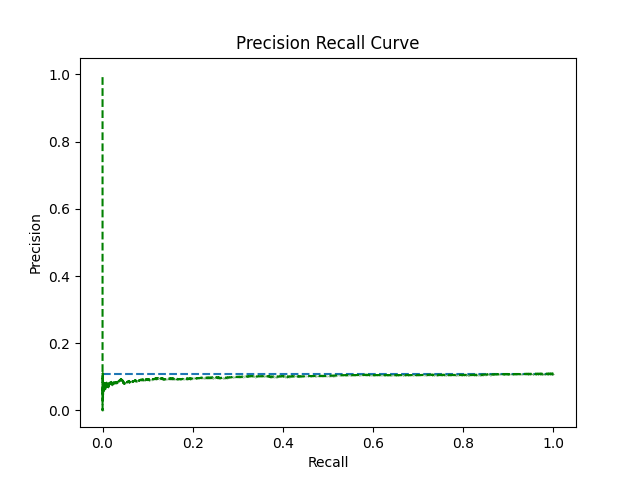
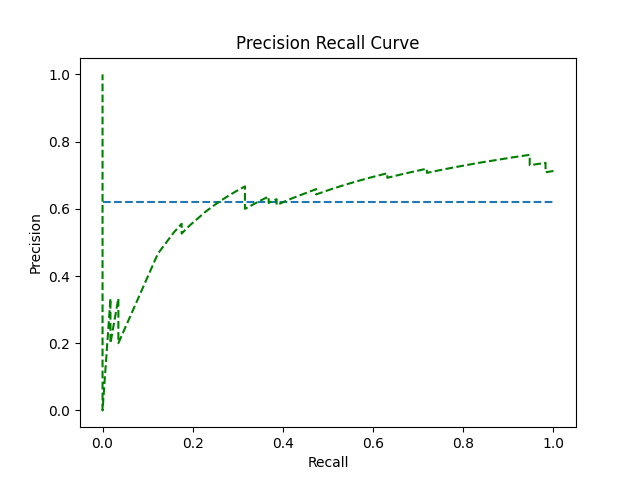
Mini batch Completed

diff --git a/Enhanced-ANN-GSGD/main.py b/Enhanced-ANN-GSGD/main.py
@@ -19,11 +19,14 @@ import torch
 import torch.nn as nn
 from torch.utils.data import DataLoader, TensorDataset
 
+seed(1)
+np.warnings.filterwarnings('ignore', category=np.VisibleDeprecationWarning) 
+np.warnings.filterwarnings('ignore', category=FutureWarning) 
+device = torch.device('cuda' if torch.cuda.is_available() else 'cpu')
+
 def GSGD_ANN(filePath):
     # reading data, normalize and spliting into train/test
     NC, x, y, N, d, xts, yts = readData(filePath)
-
-    seed(1)
     
     #model parameters
     l_rate =  0.00010926827346753853 #0.0002814354245#0.0002216960781458557#0.0002314354244 #0.000885 #0.061 #0.00025 #0.5
@@ -35,19 +38,10 @@ def GSGD_ANN(filePath):
 
     optim_params = l_rate, lamda, betas, beta, epsilon
     optims = ['SGD', 'ADAM', 'ADADELTA', 'RMSPROP', 'ADAGRAD']
-    
     optim_name = optims[0]
 
     #Results Container
-    GSGD_SRoverEpochs = []
-    GSGD_EoverEpochs = []
-
-    SGD_SRoverEpochs = []
-    SGD_EoverEpochs = []
-
-    singlepochSRGSGD = []
-    singlepochSRSGD = []
-
+    GSGD_SRoverEpochs, GSGD_EoverEpochs, SGD_SRoverEpochs, SGD_EoverEpochs, singlepochSRGSGD, singlepochSRSGD = [], [], [], [], [], []
     results_container = GSGD_SRoverEpochs, GSGD_EoverEpochs, SGD_SRoverEpochs, SGD_EoverEpochs, singlepochSRGSGD, singlepochSRSGD
 
     #initialize both networks #should have the same initial weights
@@ -55,108 +49,104 @@ def GSGD_ANN(filePath):
                       nn.Linear(d, n_hidden),
                       nn.Sigmoid(),
                       nn.Linear(n_hidden, 1),
-                      nn.Sigmoid())
+                      nn.Sigmoid()).to(device)
     optimizer_GSGD = get_optimizer(network_GSGD, name=optim_name, cache= optim_params)
     network_SGD = copy.deepcopy(network_GSGD)
     optimizer_SGD = get_optimizer(network_SGD, name=optim_name, cache= optim_params)
 
 
     # evaluate algorithm GSGD
-    T = 1000
+    T = math.inf #number of batches to train. set to math.inf if all batches will be used in training
     is_guided_approach = True
     rho = 7
-    versetnum = 5
+    versetnum = 5 #number of batches used for verification
     epochs = 30
     revisitNum = 3
-    cache = is_guided_approach, rho, versetnum,epochs, revisitNum, N, network_GSGD, optimizer_GSGD, T
-    evaluate_algorithm(back_propagation, x, y, xts, yts , l_rate, n_hidden, d, NC, N, filePath, lamda, cache, results_container)
+    batch_size = 7
 
-    # evaluate algorithm SGD
+    #evaluate GSGD
+    cache = is_guided_approach, rho, versetnum,epochs, revisitNum, N, network_GSGD, optimizer_GSGD, T, batch_size
+    evaluate_algorithm(x, y, xts, yts , l_rate, n_hidden, d, NC, N, filePath, lamda, cache, results_container)
+
+    # evaluate SGD
     is_guided_approach = False
-    cache = is_guided_approach, rho, versetnum,epochs, revisitNum, N, network_SGD, optimizer_SGD, T
-    evaluate_algorithm(back_propagation, x, y, xts, yts , l_rate, n_hidden, d, NC, N, filePath, lamda, cache, results_container)
+    cache = is_guided_approach, rho, versetnum,epochs, revisitNum, N, network_SGD, optimizer_SGD, T, batch_size
+    evaluate_algorithm(x, y, xts, yts , l_rate, n_hidden, d, NC, N, filePath, lamda, cache, results_container)
 
     #collction of final results and graphs
     generate_graphs(epochs, results_container, T)
-        
-def evaluate_algorithm(algorithm, x, y, xts, yts , l_rate, n_hidden, d, NC, N, filePath, lamda, cache , results_container):
-
-    algorithm(x, y, xts, yts, l_rate, n_hidden, d, NC, N, filePath, lamda, cache, results_container)
     
-def back_propagation(x, y, xts, yts, l_rate, n_hidden, n_inputs, n_outputs, N, filePath, lamda, cache, results_container):
+def evaluate_algorithm(x, y, xts, yts, l_rate, n_hidden, n_inputs, n_outputs, N, filePath, lamda, cache, results_container):
     loss_function = nn.MSELoss()
     StopTrainingFlag = False
-    is_guided_approach, rho, versetnum, epochs, revisitNum, N, network, optimizer, T = cache
+    is_guided_approach, rho, versetnum, epochs, revisitNum, N, network, optimizer, T, batch_size = cache
     
     GSGD_SRoverEpochs, GSGD_EoverEpochs, SGD_SRoverEpochs, SGD_EoverEpochs, singlepochSRGSGD, singlepochSRSGD  = results_container
 
-    #start epoch
+    #transform into tensors and setup dataLoader with mini batches
+    my_dataset = TensorDataset(torch.Tensor(x), torch.Tensor(y))
+    training_loader = DataLoader(my_dataset, batch_size=batch_size)
+
+    #get mini batches
+    x_batches, y_batches = [], []
+    for input,labels in training_loader:
+        x_batches.append(input.to(device))
+        y_batches.append(labels.to(device))
+    # end
+    x_batches = np.array(x_batches)
+    y_batches = np.array(y_batches)
+
+    #Guided Training starts here
     if is_guided_approach:
         prev_error = math.inf #set initial error to very large number
         for epoch in range(epochs):
             epoch_sr =  0.0
             epoch_E = math.inf
             getVerificationData = True
-            verset_x = []
-            verset_response = []
-            avgBatchLosses = []
+            verset_x, verset_response, avgBatchLosses, dataset_X, dataset_y, psi = [], [], [], [], [], []
             loopCount = -1
-            psi = []
             revisit = False
             is_guided = False
-            shuffled_order = np.random.permutation(N-1)
             et = -1
-            updated_N = N
-            new_X = copy.deepcopy(x)
-            new_y = copy.deepcopy(y)
-            dataset_X = []
-            dataset_y = []
             iteration = 0
             is_done = False
+            batch_nums = len(x_batches)
+
+            #shuffle batches
+            shuffled_batch_indxs = np.random.permutation(batch_nums)
+            new_X = copy.deepcopy(x_batches[shuffled_batch_indxs])
+            new_y = copy.deepcopy(y_batches[shuffled_batch_indxs])
+
             #start training iterations
             while  not is_done and (not StopTrainingFlag):
                 et +=1
-                if et >= (updated_N -1) or et >= T:
+                if et >= (batch_nums -1) or et >= T:
                     is_done = True
                 #Set Verification Data at the beginning of epoch
                 if getVerificationData:
-                    indxToRemove = []
-                    for vercount in range(versetnum):
-                        indx = shuffled_order[vercount]
-                        indxToRemove.append(indx)
-                        x_inst = new_X[[indx], :]
-                        y_inst = new_y[[indx], :]
-                        verset_x.append(x_inst)
-                        verset_response.append(y_inst)
-                    updated_N = N - versetnum
-                    verset_x  = np.array(verset_x).reshape(versetnum, n_inputs)
-                    verset_response = np.array(verset_response).reshape(versetnum, 1)
-                    #update new x and y
-                    new_X = np.delete(new_X, indxToRemove, axis=0)
-                    new_y = np.delete(new_y, indxToRemove, axis=0)
-                    getVerificationData = False
-                
+                    versetindxs = shuffled_batch_indxs[:versetnum]
+                    verset_x = np.array(new_X[versetindxs]) #.reshape(versetnum, n_inputs)
+                    verset_response = np.array(new_y[versetindxs]) #.reshape(versetnum, n_inputs)
+                    batch_nums = batch_nums - versetnum
+                    new_X = np.delete(new_X, versetindxs, axis=0)
+                    new_y = np.delete(new_y, versetindxs, axis=0)
+                    getVerificationData = False  
+
                 if not is_guided:
                     iteration = iteration + 1
                     loopCount = loopCount + 1
-                    x_inst = new_X[[et], :]
-                    y_inst = new_y[[et], :]
+                    x_inst = new_X[et]
+                    y_inst = new_y[et]
                     dataset_X.append(x_inst)
                     dataset_y.append(y_inst)
 
                     #1  train Network
                     train_network(network, x_inst, y_inst, l_rate, n_outputs, lamda, n_inputs, loss_function, optimizer)
-                   
 
                     #now get verification data loss
                     veridxperms = np.random.permutation(versetnum-1)
                     veridxperm = veridxperms[0]
-                    ver_x = verset_x[[veridxperm], :]
-                    ver_y = verset_response[[veridxperm], :]
-                    #run foward propagation
-                    # verloss = getErrorCrossEntropy(veridxperm, verset_x, verset_response, network, n_outputs)
                     verloss = getErrorMSE(veridxperm, verset_x, verset_response, network, loss_function)
-                    #calculate loss of this verification instance  => verloss
                     pos = 1
                     if verloss < prev_error:
                         pos = -1
@@ -164,8 +154,8 @@ def back_propagation(x, y, xts, yts, l_rate, n_hidden, n_inputs, n_outputs, N, f
                     #Revist Previous Batches of Data and recalculate their
                     #losses only. WE DO NOT RE-UPDATE THE ENTIRE NETWORK WEIGHTS HERE. 
                     if revisit:
-                        revisit_dataX = np.array(dataset_X).reshape(len(dataset_X), n_inputs)
-                        revisit_dataY = np.array(dataset_y).reshape(len(dataset_y), 1)
+                        revisit_dataX = np.array(dataset_X) #.reshape(len(dataset_X), n_inputs)
+                        revisit_dataY = np.array(dataset_y) #.reshape(len(dataset_y), 1)
 
                         if loopCount == 1 or loopCount < revisitNum:
                             loopend = loopCount
@@ -175,9 +165,7 @@ def back_propagation(x, y, xts, yts, l_rate, n_hidden, n_inputs, n_outputs, N, f
                         for i in range(loopend, loopCount, -1):
                             currentBatchNumber = currentBatchNumber - 1
 
-                            #forward propagte revisit_x
                             #Reuse the layers outputs to compute loss of this revisit here => 
-                            #lossofrevisit = getErrorCrossEntropy(currentBatchNumber, revisit_dataX, revisit_dataY, network, n_outputs)
                             lossofrevisit = getErrorMSE(currentBatchNumber, revisit_dataX, revisit_dataY, network, loss_function)
                             
                             #previous batch was revisited and loss value is added into the array with previous batch losses
@@ -198,8 +186,8 @@ def back_propagation(x, y, xts, yts, l_rate, n_hidden, n_inputs, n_outputs, N, f
                     for k in range(loopCount):
                         avgBatchLosses = np.append(avgBatchLosses, np.mean(psi[k]))
                     
-                    this_dataX = np.array(dataset_X).reshape(len(dataset_X), n_inputs)
-                    this_dataY = np.array(dataset_y).reshape(len(dataset_y), 1)
+                    this_dataX = np.array(dataset_X) #.reshape(len(dataset_X), n_inputs)
+                    this_dataY = np.array(dataset_y) #.reshape(len(dataset_y), 1)
 
                     numel_avgBatch = len(avgBatchLosses)
                     avgBatchLosses_idxs = np.argsort(avgBatchLosses)[::-1]
@@ -209,15 +197,13 @@ def back_propagation(x, y, xts, yts, l_rate, n_hidden, n_inputs, n_outputs, N, f
                     for r in range(int(min_repeat)):
                         if(avgBatchLosses[r] > 0):
                             guidedIdx = avgBatchLosses_idxs[r]
-                            x_inst = this_dataX[[guidedIdx],:]
-                            y_inst = this_dataY[[guidedIdx],:]
+                            x_inst = this_dataX[guidedIdx]
+                            y_inst = this_dataY[guidedIdx]
                             
                             train_network(network, x_inst, y_inst, l_rate, n_outputs, lamda, n_inputs, loss_function, optimizer)
 
                             #Get Verification Data Loss
                             verIDX = np.random.permutation(versetnum)[0]
-                            verx = verset_x[[verIDX], :]
-                            very = verset_response[[verIDX], :]
 
                             # verLoss  = getError(verIDX, verset_x, verset_response, network, n_outputs)
                             verLoss  = getErrorMSE(verIDX, verset_x, verset_response, network, loss_function)
@@ -254,46 +240,24 @@ def back_propagation(x, y, xts, yts, l_rate, n_hidden, n_inputs, n_outputs, N, f
 
         print_results_final(xts, network, yts, loss_function, type='guided')
 
-    else: #not guided training in mini batches
+    else: #not guided training
         print("Not Guided Training started")
-        shuffled_idxs = np.random.permutation(N-1)
-
-        tensor_x = torch.Tensor(x[shuffled_idxs])
-        tensor_y = torch.Tensor(y[shuffled_idxs])
-
-        my_dataset = TensorDataset(tensor_x, tensor_y)
-        training_loader = DataLoader(my_dataset, batch_size=77, shuffle=True)
+        batch_nums = len(x_batches)
 
         for epoch in range(epochs):
-            
-            for input,labels in training_loader:
+
+            #shuffle batches
+            shuffled_batch_indxs = np.random.permutation(batch_nums)
+            new_X = x_batches[shuffled_batch_indxs]
+            new_y = y_batches[shuffled_batch_indxs]
+
+            for et in range(batch_nums):
                 network.zero_grad()
-                pred_y = network(input)
-                loss = loss_function(pred_y, labels)
+                pred_y = network(new_X[et])
+                loss = loss_function(pred_y, new_y[et])
                 loss.backward()
                 optimizer.step()
 
-
-            # iteration = 0
-            # for idx in shuffled_idxs:
-            #     iteration += 1
-            #     network.zero_grad()
-            #     data_x = torch.from_numpy(x[[idx],:]).float()
-            #     pred_y = network(data_x)
-            #     data_y = torch.from_numpy(y[[idx],:]).float() #row_label should numpy array
-            #     loss = loss_function(pred_y, data_y)
-            #     loss.backward()
-
-            #     optimizer.step()
-                                
-            #     if(epoch == 0):
-            #         doTerminate, SR, E = validate(
-            #                 xts, network, yts, iteration, n_outputs, epoch+1, loss_function)
-            #         singlepochSRSGD.append(SR.item())
-
-            #     if(iteration >= T):
-            #         break
-            
             iteration = 0
             doTerminate, SR, E = validate(
                             xts, network, yts, iteration, n_outputs, epoch+1, loss_function)

diff --git a/Enhanced-ANN-GSGD/network.py b/Enhanced-ANN-GSGD/network.py
@@ -6,11 +6,9 @@ import torch
 import torch.nn as nn
 
 def train_network(network, x, y, l_rate, n_outputs, lamda, n_inputs, loss_function, optimizer):
-    for row, row_label in zip(x,y):
+    for data_x, data_y in zip(x,y):
         network.zero_grad()
-        data_x = torch.from_numpy(row).float()
         pred_y = network(data_x)
-        data_y = torch.from_numpy(row_label).float() #row_label should numpy array
         loss = loss_function(pred_y, data_y)
         loss.backward()
 

diff --git a/Enhanced-ANN-GSGD/bayesian_parameter_tuning.py b/Enhanced-ANN-GSGD/bayesian_parameter_tuning.py
@@ -68,7 +68,7 @@ def main_func():
             {"name": "n_hidden", "type": "range", "bounds": [1, 50]},
             {"name": "batch_size", "type": "range", "bounds": [1, 100]},        
             {"name": "dampening", "type": "range", "bounds": [0.0, 0.5]},        
-            {"name": "epochs", "type": "range", "bounds": [1, 1000]},        
+            {"name": "epochs", "type": "range", "bounds": [1, 40]},        
         ],
     
         evaluation_function=train_evaluate,

diff --git a/Enhanced-ANN-GSGD/getError.py b/Enhanced-ANN-GSGD/getError.py
@@ -3,11 +3,9 @@ import torch.nn as nn
 import numpy as np
 
 def getErrorMSE(idx, x, y, network, loss_function):
-    row = x[idx]
-    row_label = y[idx]
+    data_x = x[idx]
+    data_y = y[idx]
     network.zero_grad()
-    data_x = torch.from_numpy(row).float()
     pred_y = network(data_x)
-    data_y = torch.from_numpy(row_label).float() #row_label should numpy array
     loss = loss_function(pred_y, data_y)
     return loss.item()
